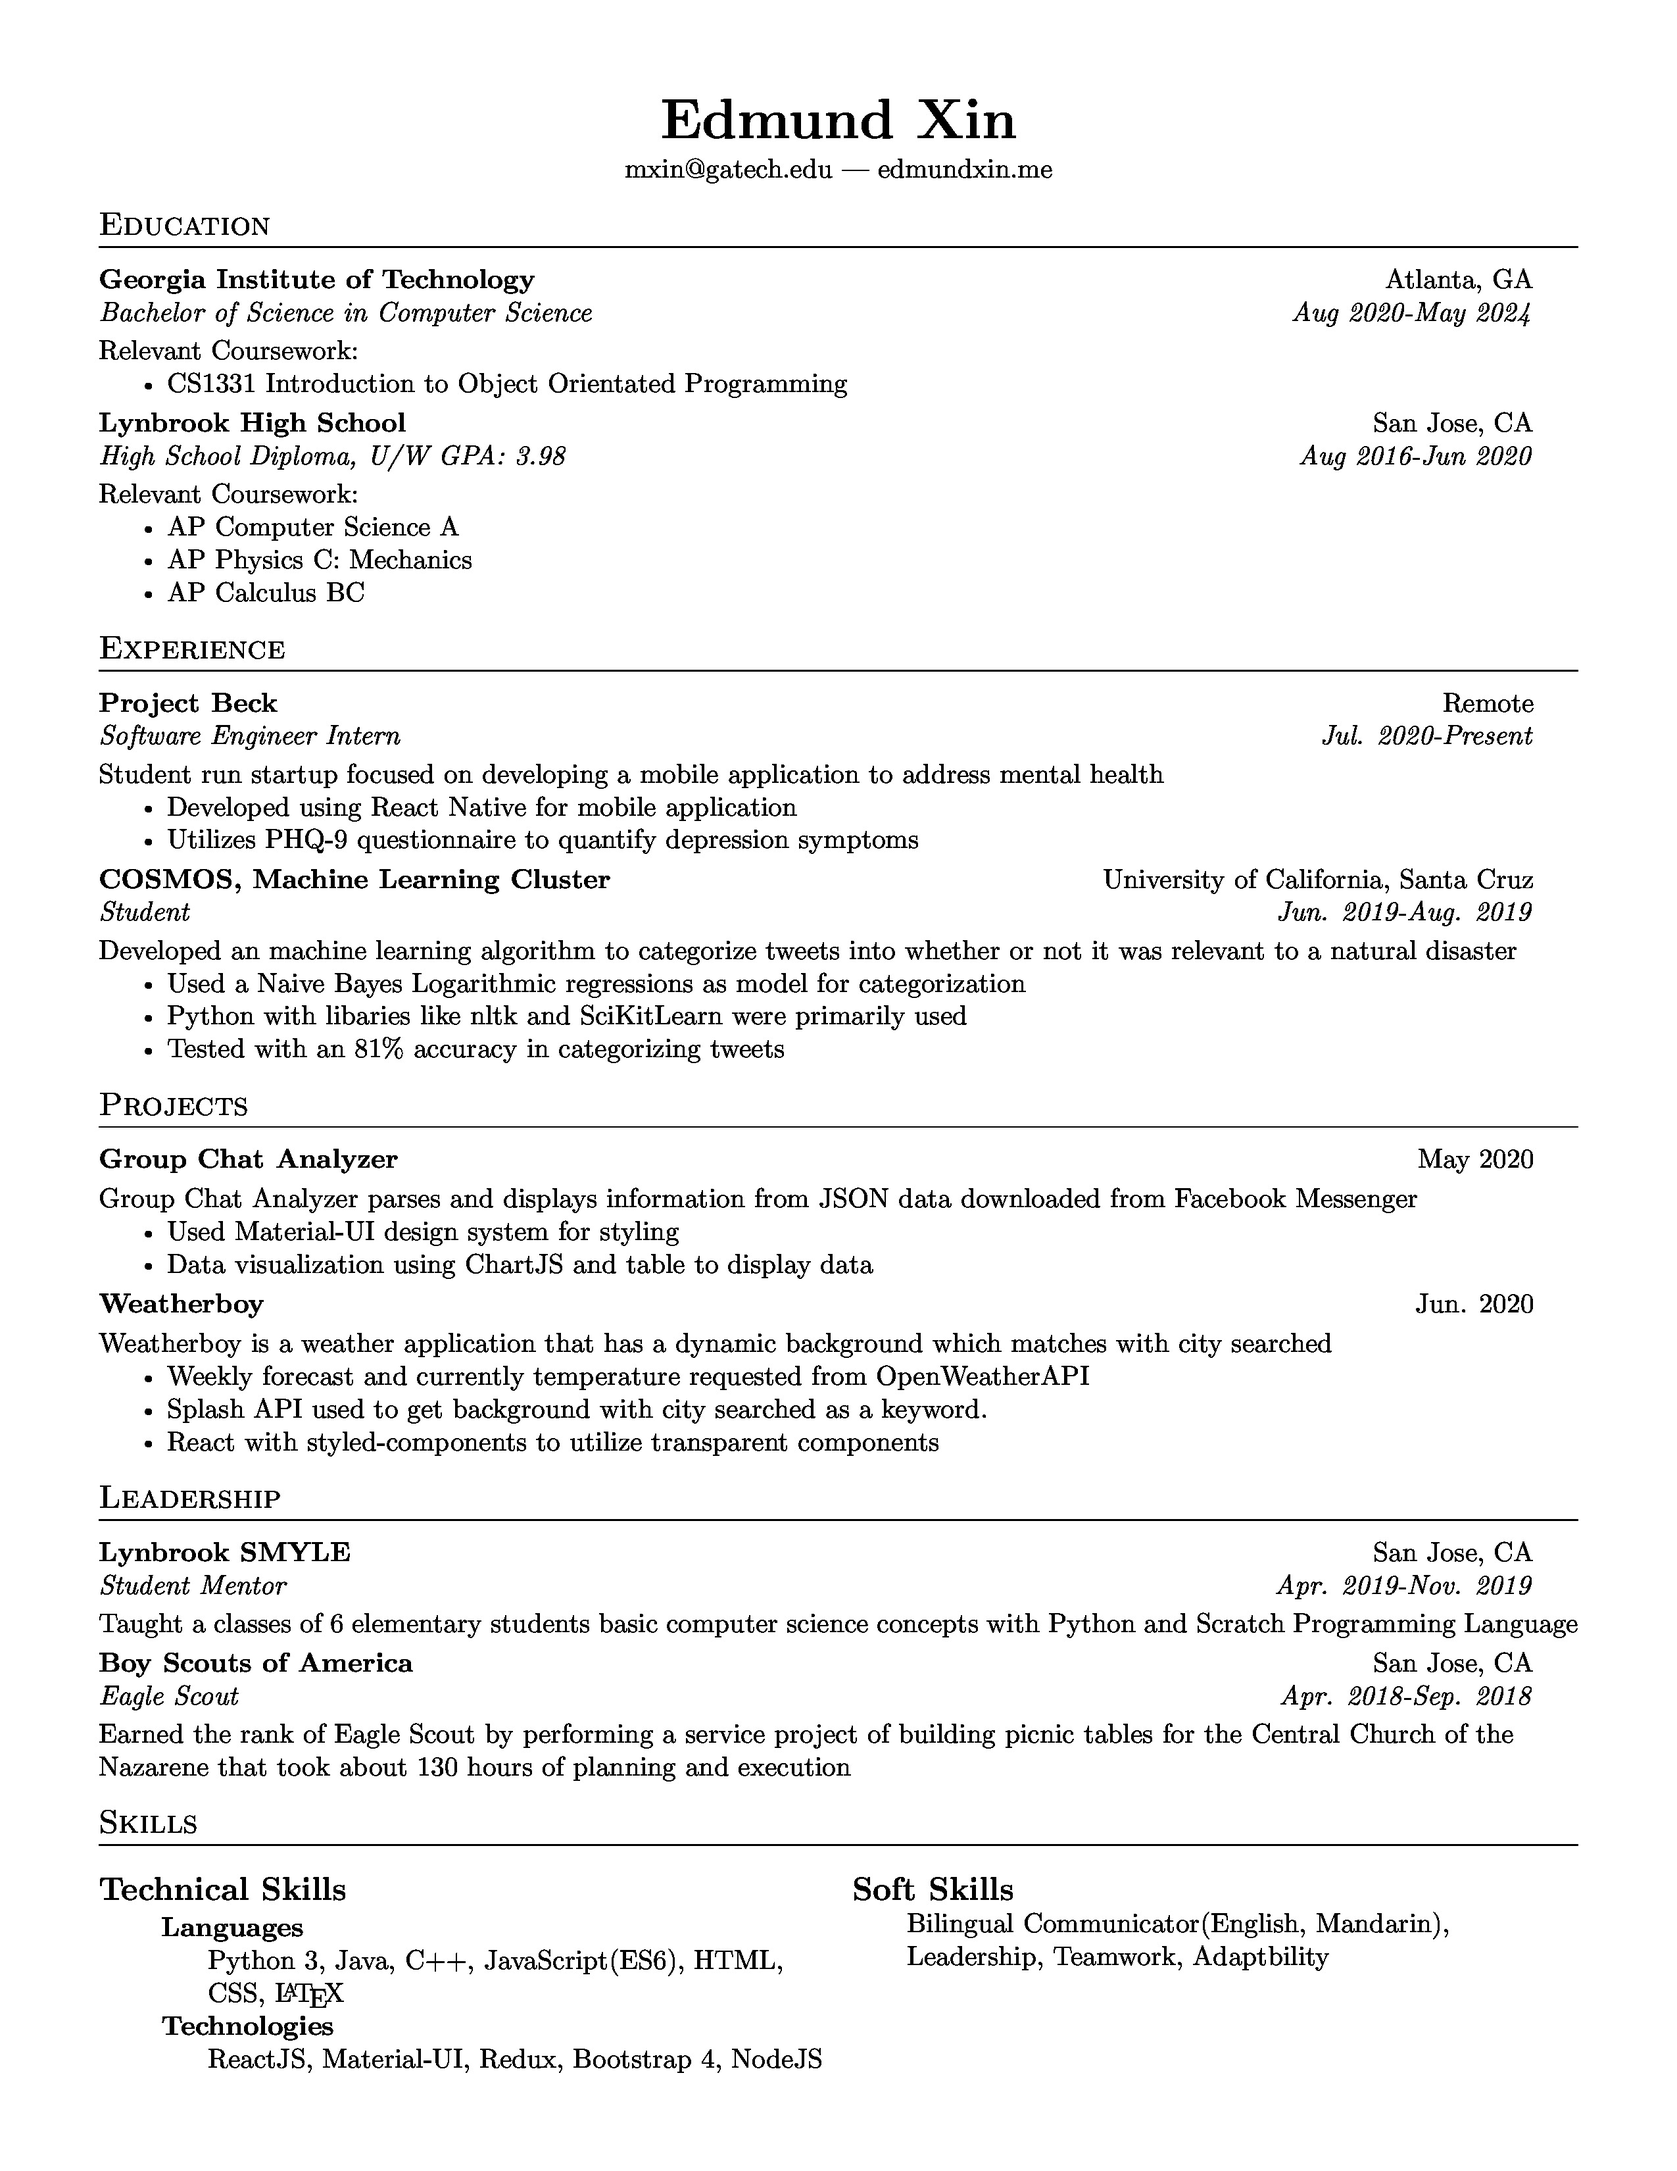
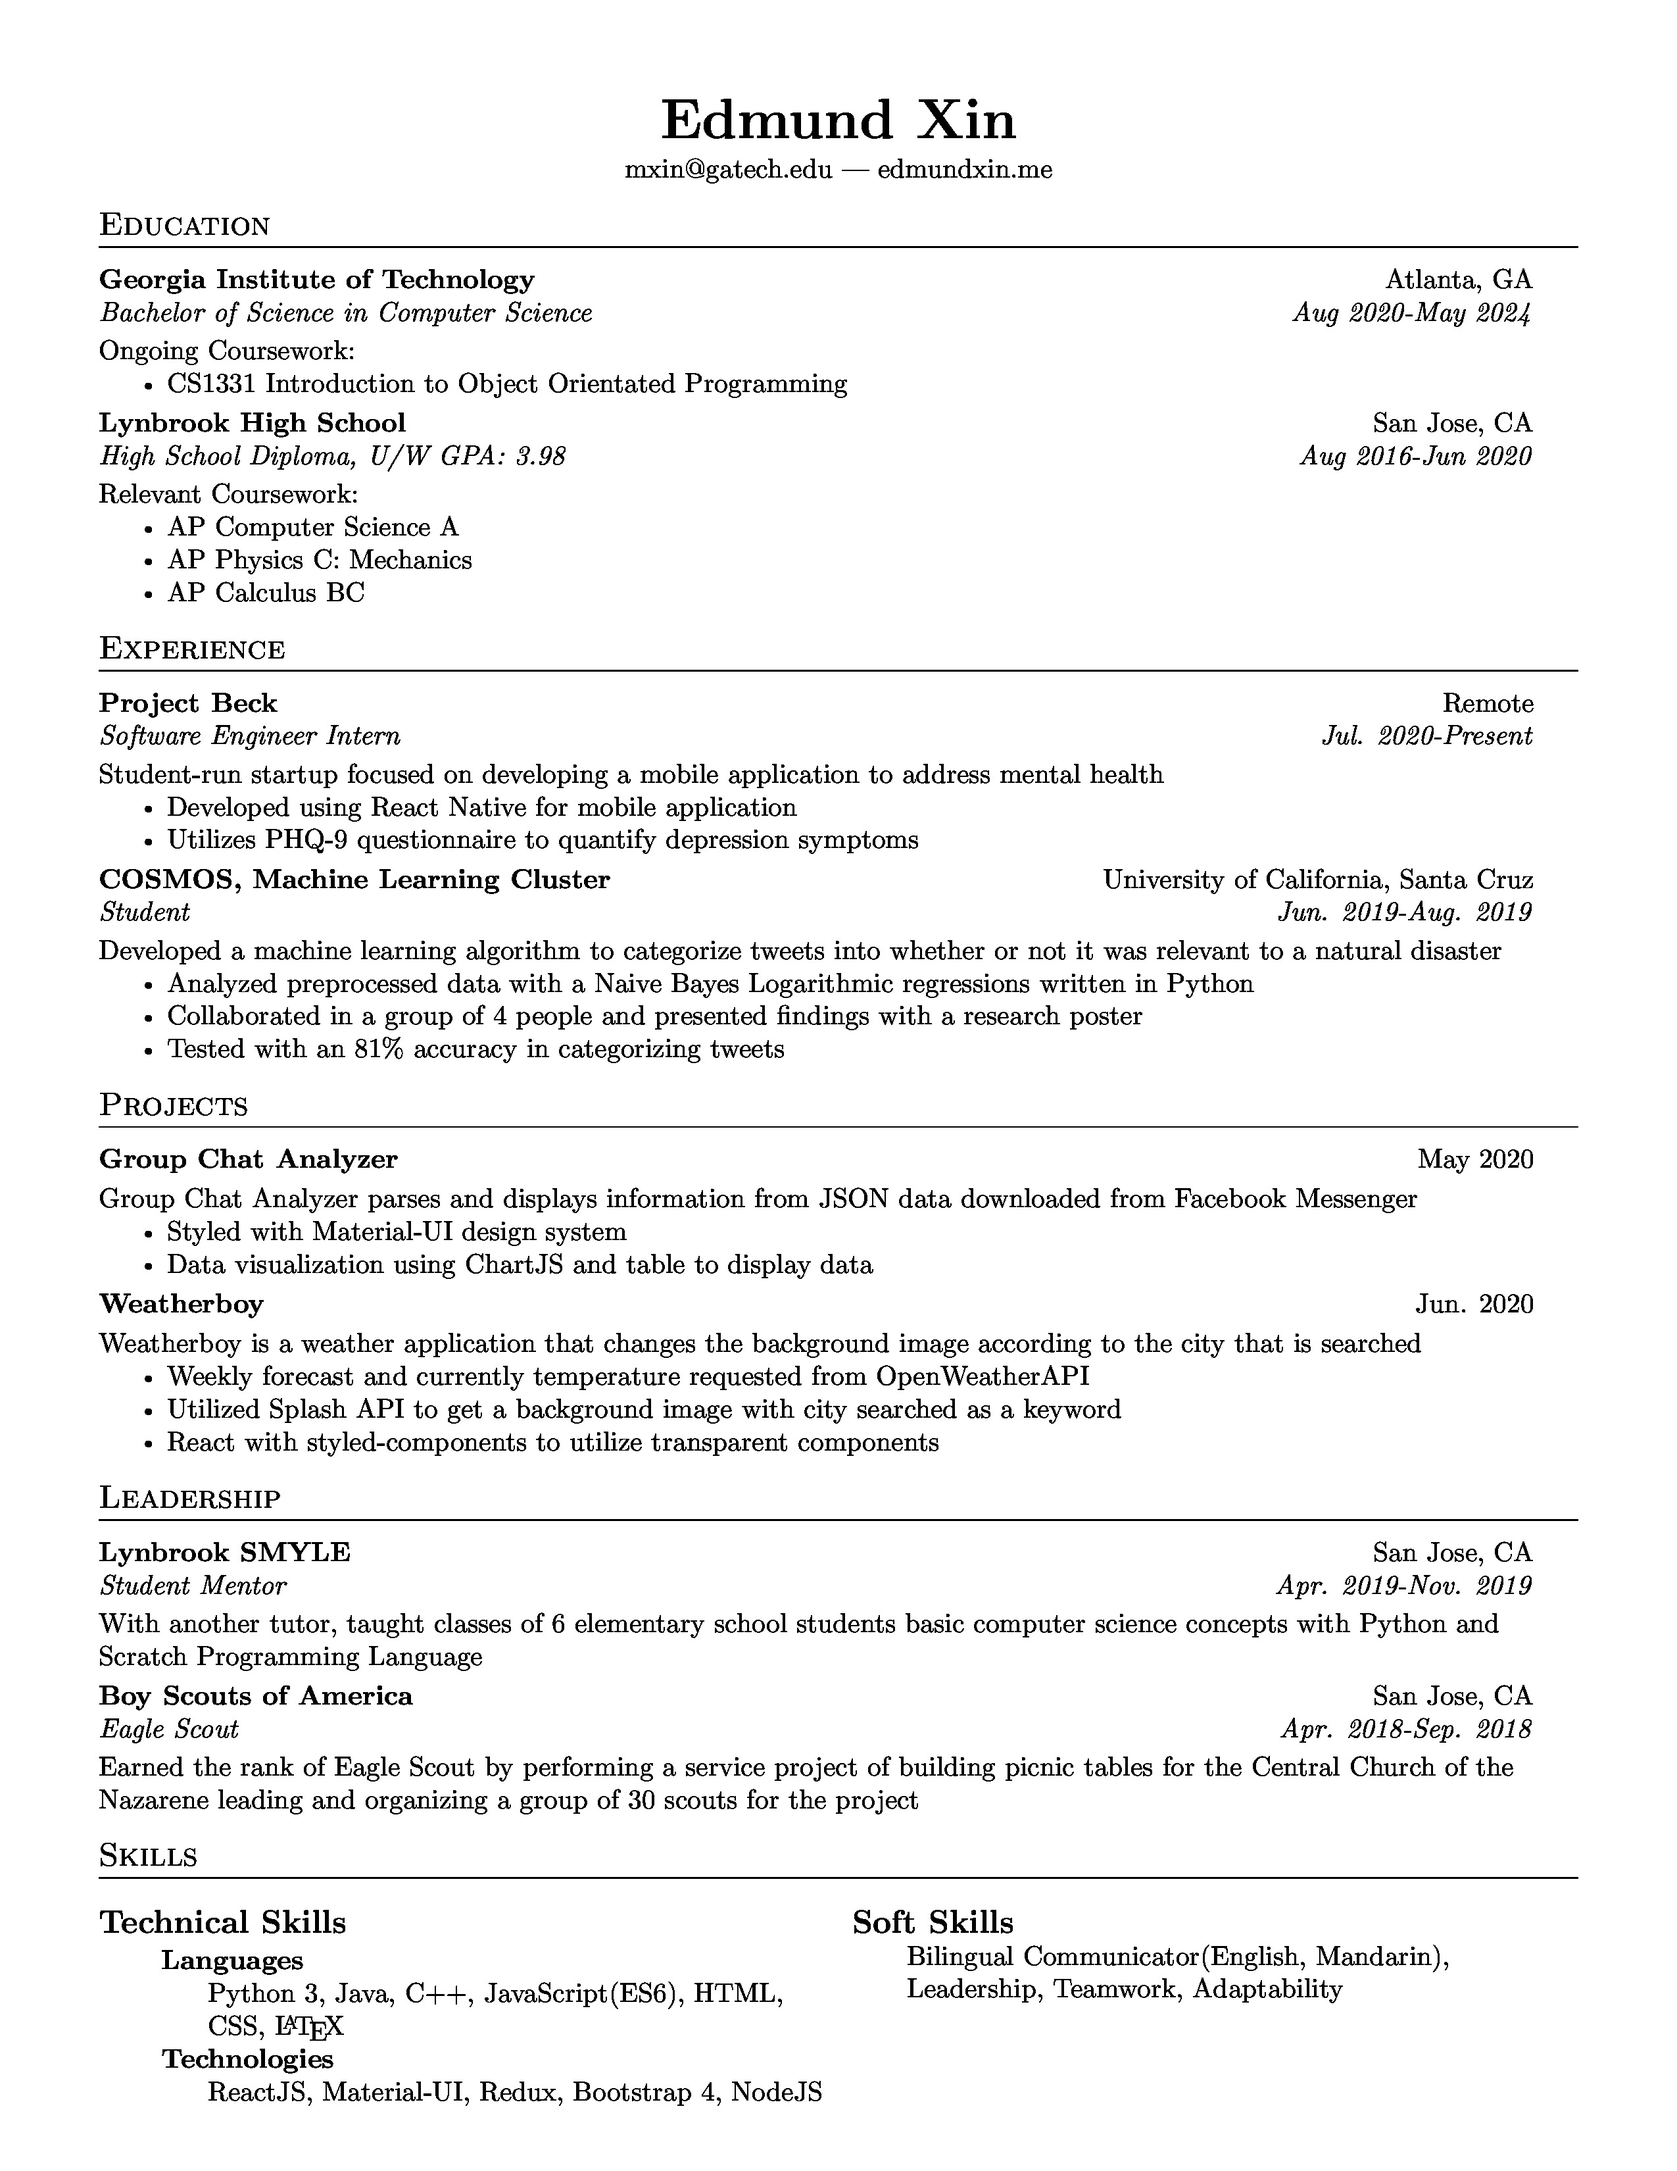
verb changes

diff --git a/resume.tex b/resume.tex
@@ -105,7 +105,7 @@
 \resumeSubheading{Georgia Institute of Technology}
 {Atlanta, GA}{Bachelor of Science in Computer Science
 }{Aug 2020-May 2024}
-Relevant Coursework:
+Ongoing Coursework:
 \setlist{nolistsep}
 \begin{itemize}[label=\raisebox{0.25ex}{\tiny$\bullet$}, font=\small]
   \item CS1331 Introduction to Object Orientated Programming
@@ -127,7 +127,7 @@ Relevant Coursework:
 
 \resumeSubheading{Project Beck}{Remote}{Software Engineer Intern}{Jul. 2020-Present}
 
-Student run startup focused on developing a mobile application to address mental health
+Student-run startup focused on developing a mobile application to address mental health
 
 \setlist{nolistsep}
 \begin{itemize}[label=\raisebox{0.25ex}{\tiny$\bullet$}]
@@ -138,12 +138,12 @@ Student run startup focused on developing a mobile application to address mental
 \resumeSubheading{COSMOS, Machine Learning Cluster}
 {University of California, Santa Cruz}{Student}{Jun. 2019-Aug. 2019}
 
-Developed an machine learning algorithm to categorize tweets into whether or not it was relevant to a natural disaster
+Developed a machine learning algorithm to categorize tweets into whether or not it was relevant to a natural disaster
 
 \setlist{nolistsep}
 \begin{itemize}[label=\raisebox{0.25ex}{\tiny$\bullet$}]
-  \item Used a Naive Bayes Logarithmic regressions as model for categorization
-  \item Python with libaries like nltk and SciKitLearn were primarily used
+  \item Analyzed preprocessed data with a Naive Bayes Logarithmic regressions written in Python
+  \item Collaborated in a group of 4 people and presented findings with a research poster
   \item Tested with an 81\% accuracy in categorizing tweets
 \end{itemize}
 
@@ -155,19 +155,19 @@ Group Chat Analyzer parses and displays information from JSON data downloaded fr
 
 \setlist{nolistsep}
 \begin{itemize}[label=\raisebox{0.25ex}{\tiny$\bullet$}]
-  \item Used Material-UI design system for styling
+  \item Styled with Material-UI design system
   \item Data visualization using ChartJS and table to display data
 \end{itemize}
 
 \resumeSubheadingTwo{Weatherboy}
 {Jun. 2020}
 
-Weatherboy is a weather application that has a dynamic background which matches with city searched
+Weatherboy is a weather application that changes the background image according to the city that is searched
 
 \setlist{nolistsep}
 \begin{itemize}[label=\raisebox{0.25ex}{\tiny$\bullet$}]
   \item Weekly forecast and currently temperature requested from OpenWeatherAPI
-  \item Splash API used to get background with city searched as a keyword.
+  \item Utilized Splash API to get a background image with city searched as a keyword
   \item React with styled-components to utilize transparent components
 \end{itemize}
 
@@ -177,12 +177,12 @@ Weatherboy is a weather application that has a dynamic background which matches 
 \resumeSubheading{Lynbrook SMYLE}
 {San Jose, CA}{Student Mentor}{Apr. 2019-Nov. 2019}
 
-Taught a classes of 6 elementary students basic computer science concepts with Python and Scratch Programming Language
+With another tutor, taught classes of 6 elementary school students basic computer science concepts with Python and Scratch Programming Language
 
 \resumeSubheading{Boy Scouts of America}
 {San Jose, CA}{Eagle Scout}{Apr. 2018-Sep. 2018}
 
-Earned the rank of Eagle Scout by performing a service project of building picnic tables for the Central Church of the Nazarene that took about 130 hours of planning and execution
+Earned the rank of Eagle Scout by performing a service project of building picnic tables for the Central Church of the Nazarene leading and organizing a group of 30 scouts for the project
 
 \section{Skills}
 
@@ -208,7 +208,7 @@ ReactJS, Material-UI, Redux, Bootstrap 4, NodeJS
 \subsection{Soft Skills}
 
 \begin{adjustwidth}{2em}{}
-Bilingual Communicator(English, Mandarin), Leadership, Teamwork, Adaptbility
+Bilingual Communicator(English, Mandarin), Leadership, Teamwork, Adaptability
 \end{adjustwidth}
 
 \end{multicols}
